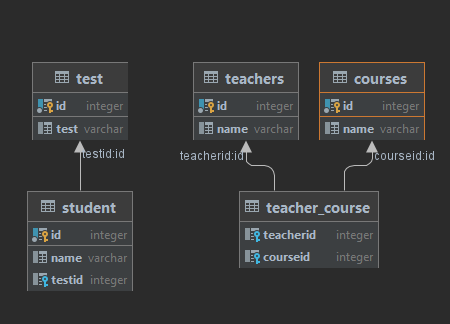
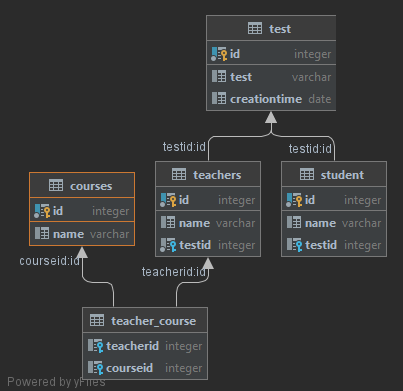
added boolean type in test case

diff --git a/DemoApp/src/main/java/showUses/UpdateOneToMany.java b/DemoApp/src/main/java/showUses/UpdateOneToMany.java
@@ -14,10 +14,11 @@ public class UpdateOneToMany {
             Student s = new Student();
             s.id = 3;
             s.name = "Jacky";
+            s.inscribed = true;
             try {
                 s.test = Orm.getObject(Test.class, 1, true);
                 System.out.println("Getting: Test t with name: " + s.test.test + " and id: " + s.test.id);
-                System.out.println("Adding Student s with name: " + s.name + " and id: " + s.id + " to Test t with id: " + s.test.id);
+                System.out.println("Adding Student s with name: " + s.name + ", id: " + s.id + " and inscribed: " + s.inscribed + " to Test t with id: " + s.test.id);
                 t.students.add(s);
             } catch (Exception e) {
                 System.out.println("Failed to get object.");
@@ -31,7 +32,7 @@ public class UpdateOneToMany {
                 Test test = Orm.getObject(Test.class, 1, true);
                 System.out.println("Getting: Test t with name: " + test.test + " and id: " + test.id + " with students: ");
                 for(Student student : t.students){
-                    System.out.println(student.name + " id: " + student.id);
+                    System.out.println(student.name + " id: " + student.id + ", inscribed: " + s.inscribed);
                 }
             } catch (Exception e) {
                 System.out.println("Failed to get object.");

diff --git a/DemoApp/src/main/java/showUses/WithOneToMany.java b/DemoApp/src/main/java/showUses/WithOneToMany.java
@@ -11,6 +11,7 @@ public class WithOneToMany {
         Student s = new Student();
         s.id = 2;
         s.name = "Alec";
+        s.inscribed = true;
         try {
             s.test = Orm.getObject(Test.class, 1, true);
         } catch (Exception e) {
@@ -18,7 +19,7 @@ public class WithOneToMany {
         }
         try {
             Orm.save(s);
-            System.out.println("Saved: Test t with name: " + s.name + " and id: " + s.id + " with test: " + s.test.test + " and id: " + s.test.id);
+            System.out.println("Saved: Test t with name: " + s.name + ", id: " + s.id + " and inscribed" + s.inscribed + " with test: " + s.test.test + " and id: " + s.test.id);
         } catch (Exception e) {
             System.out.println("Failed to save object.");
         }
@@ -26,7 +27,7 @@ public class WithOneToMany {
             Test t = Orm.getObject(Test.class, 1, true);
             System.out.println("Getting: Test t with name: " + t.test + " and id: " + t.id + " with students: ");
             for(Student student : t.students){
-                System.out.println(student.name + " id: " + student.id);
+                System.out.println(student.name + " id: " + student.id + " and inscribed: " + s.inscribed);
             }
         } catch (Exception e) {
             System.out.println("Failed to get object.");

diff --git a/DemoApp/src/main/java/showUses/WithFK.java b/DemoApp/src/main/java/showUses/WithFK.java
@@ -11,6 +11,7 @@ public class WithFK {
         Student s = new Student();
         s.id = 1;
         s.name = "Jakob";
+        s.inscribed = false;
         try {
             s.test = Orm.getObject(Test.class, 1, true);
             System.out.println("Getting: Test t with name: " + s.test.test + " and id: " + s.test.id);
@@ -19,7 +20,7 @@ public class WithFK {
         }
         try {
             Orm.save(s);
-            System.out.println("Saved: Test t with name: " + s.name + " and id: " + s.id + " with test: " + s.test.test +  " and id: " + s.test.id);
+            System.out.println("Saved: Test t with name: " + s.name + ", id: " + s.id + " and inscribed: " + s.inscribed + " with test: " + s.test.test +  " and id: " + s.test.id);
         } catch (Exception e) {
             System.out.println("Failed to save object.");
         }

diff --git a/DemoApp/src/main/java/classes/Student.java b/DemoApp/src/main/java/classes/Student.java
@@ -25,6 +25,12 @@ public class Student {
     public String name;
 
     /**
+     * Field inscribed
+     */
+    @Field(fieldName = "inscribed")
+    public boolean inscribed;
+
+    /**
      * Foreign key Test for Student
      */
     @ForeignKey(fKTableName = "test", foreignClass = Test.class)
